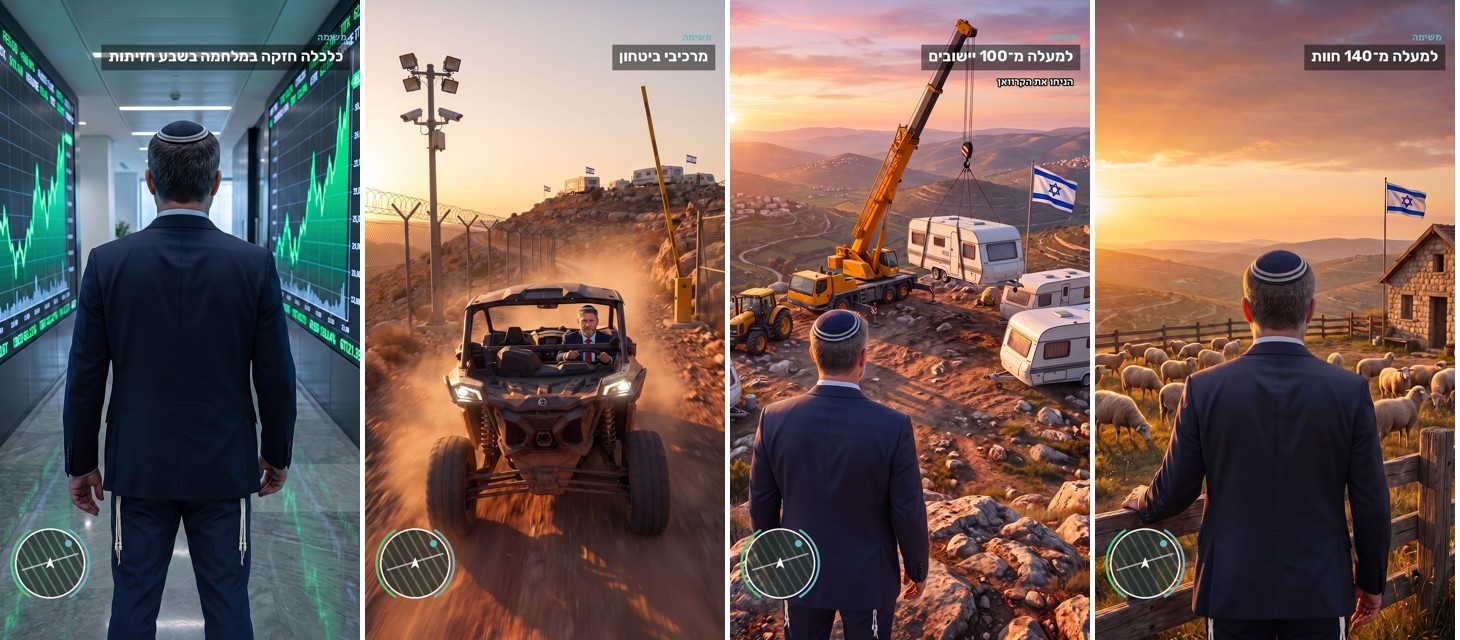
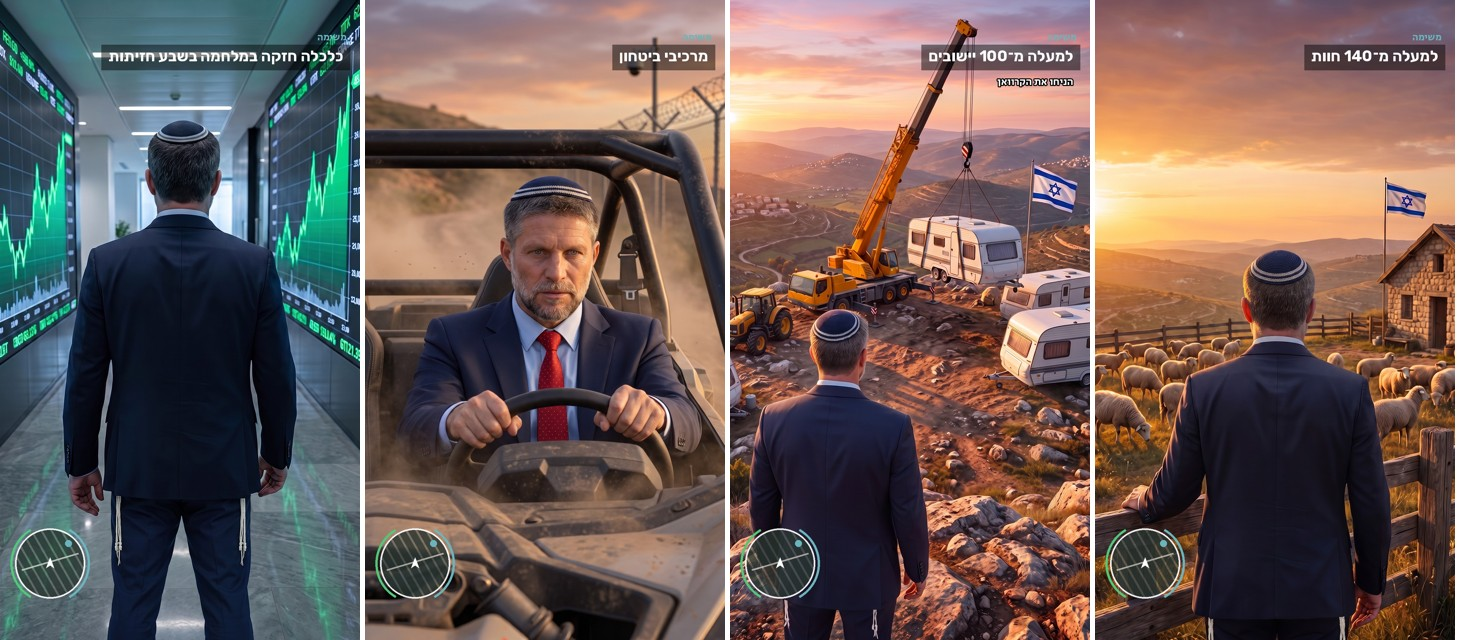
RZ game reel: close-up razor frame
Claude-Session: https://claude.ai/code/session_01RS3QK6pAd3YhyAuXZSJjH1

Changed region(s): [[0.2466, 0.0, 0.524, 1.0]]

diff --git a/content-kit/hatzionut-hadatit/2026-11-reel-game-team/hud.py b/content-kit/hatzionut-hadatit/2026-11-reel-game-team/hud.py
@@ -36,7 +36,7 @@ def hud(src, out, mission, sub=None, done=False):
 if __name__ == '__main__':
     G = HERE + '/gen/'
     S = [('c-scene1.png', 'כלכלה חזקה במלחמה בשבע חזיתות', None, False),
-         ('c-scene2.png', 'מרכיבי ביטחון', None, False),
+         ('c-scene2-cu.png', 'מרכיבי ביטחון', None, False),
          ('c-scene3.png', 'למעלה מ־\u2066100\u2069 יישובים', 'הניחו את הקרוואן', False),
          ('c-scene4.png', 'למעלה מ־\u2066140\u2069 חוות', None, False)]
     outs = []
